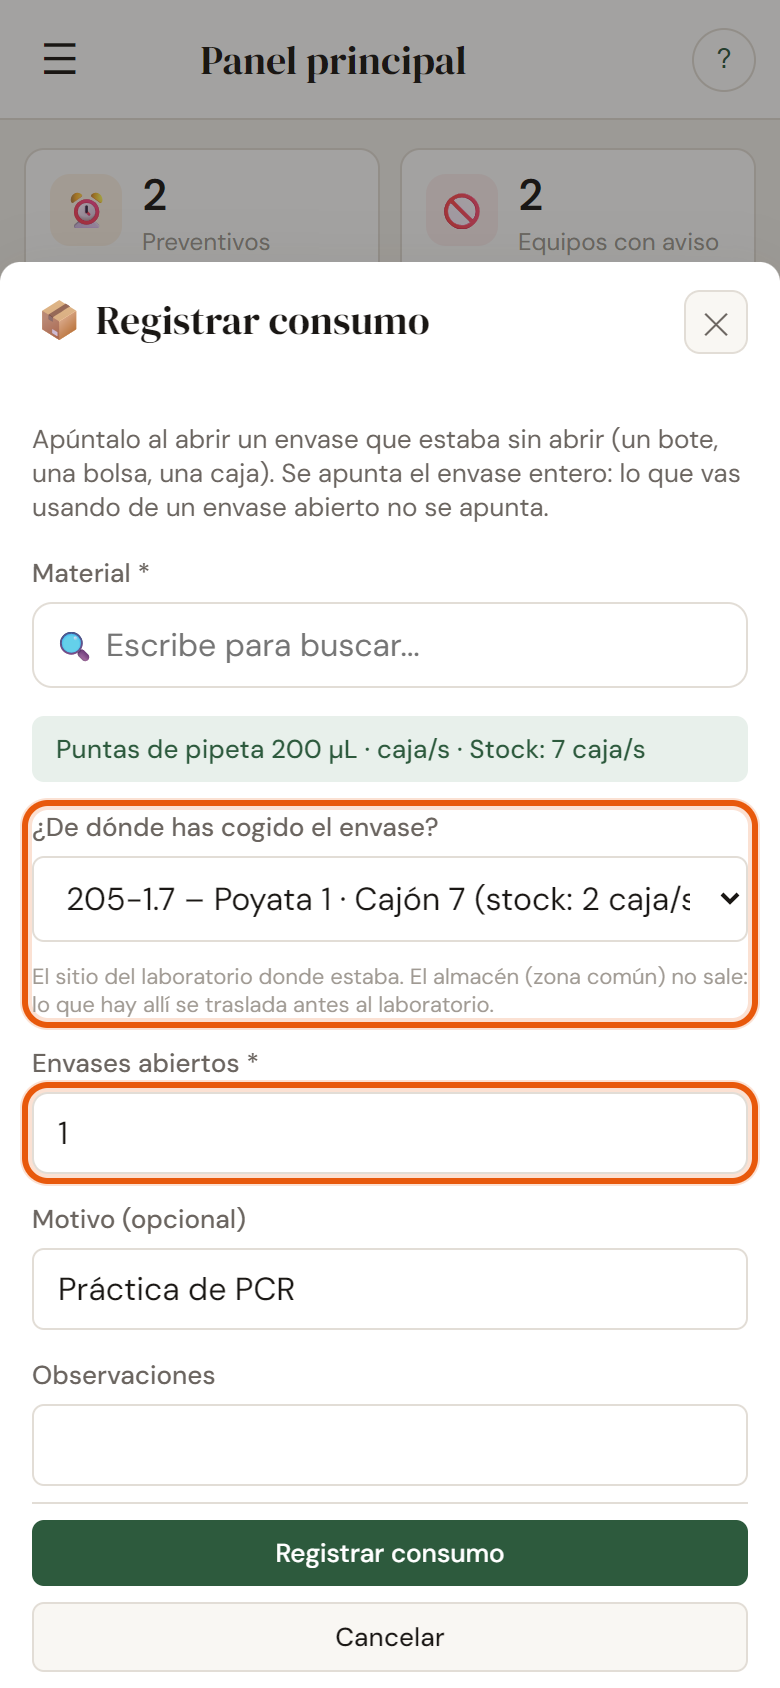
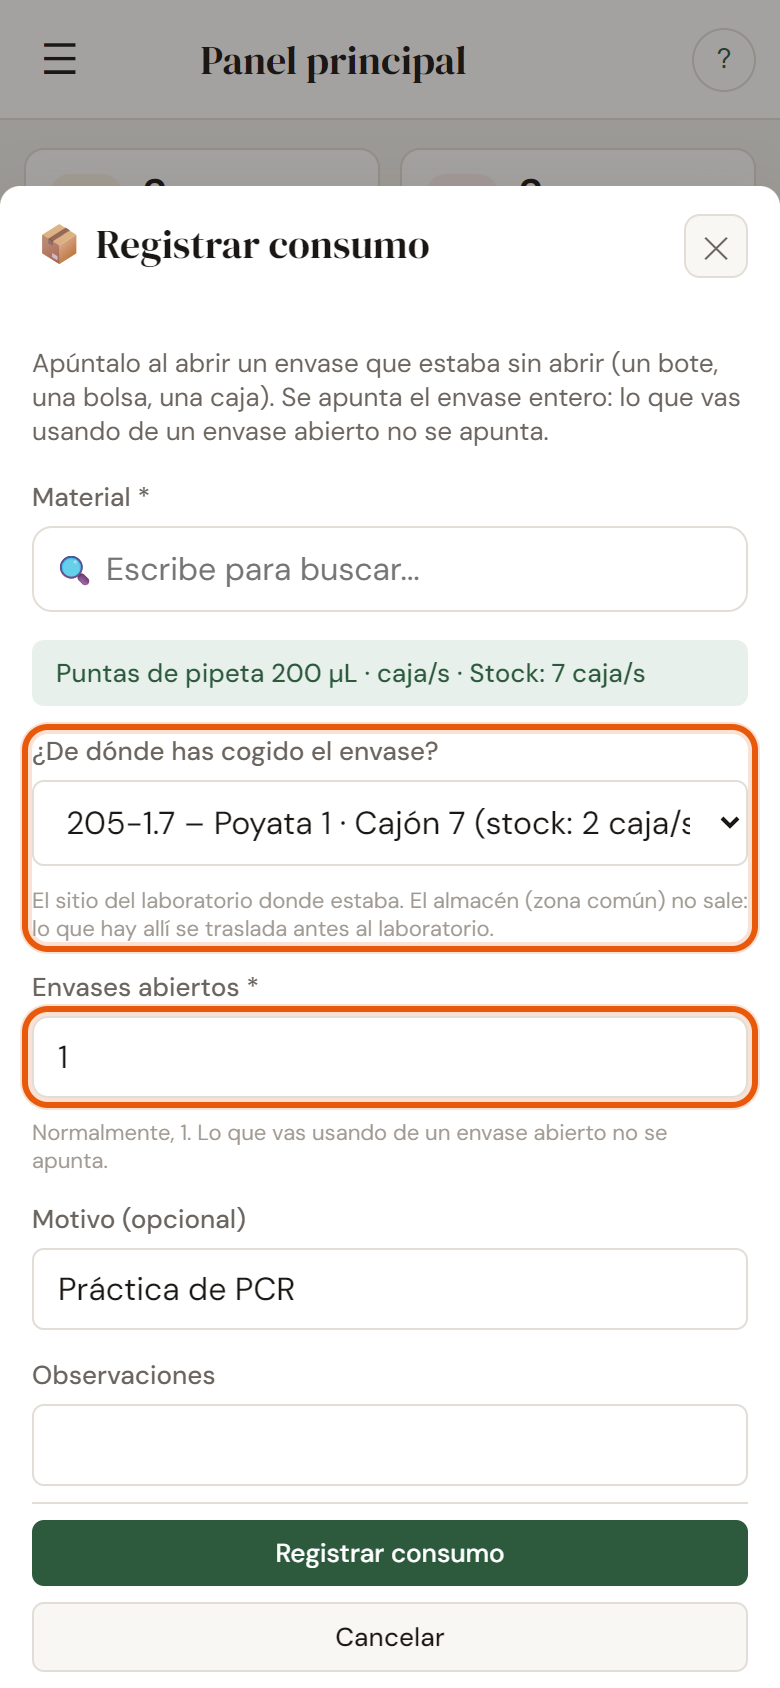
Material reutilizable (no se gasta) y consumibles contados por unidades
- Columna material.reutilizable: casilla «♻ Reutilizable» en la ficha y marca en la lista.
  Sin 📦 y el servidor no le admite consumo. Relleno inicial: 74 materiales (vidrio por
  unidades y lista por nombre) con scripts/marcar_material_reutilizable.py.
- Registro de consumo: si el material se cuenta por unidades sueltas, pide «Unidades del
  envase abierto» (todas las que traía), sin el 1 por defecto.
- Ayuda STO-2: notas de ambas cosas; captura 01 rehecha.

Changed region(s): [[0.0, 0.0924, 1.0, 0.7085], [0.9231, 0.2773, 0.9538, 0.3081]]

diff --git a/js/material.js b/js/material.js
@@ -276,7 +276,7 @@ function renderFilaMaterial(m) {
   let html = `<tr class="equipo-row expandable" id="${rowId}" style="cursor:pointer" onclick="toggleMatUbics('${m.ID_Material}')">
     <td><strong>${m.ID_Material}</strong></td>
     <td>
-      <span class="expand-icon" id="expand-mat-${safeId}">▶</span> ${m.Nombre}${avisoEsteril}
+      <span class="expand-icon" id="expand-mat-${safeId}">▶</span> ${m.Nombre}${avisoEsteril}${m.Reutilizable ? ` <span title="Reutilizable: no se gasta, no se apunta consumo" style="margin-left:4px;font-size:11px;color:var(--text-muted);white-space:nowrap">♻ Reutilizable</span>` : ''}
     </td>
     <td><span class="badge badge-gray">${m.Categoria ? m.Categoria.split(' — ')[0] : '—'}</span></td>
     <td>${ubiLabel}</td>
@@ -322,7 +322,7 @@ function renderFilaMaterial(m) {
         </td>
         <td colspan="2" style="font-size:12px;color:var(--text-muted)">${mnLocal || '—'} / ${opLocal || '—'}</td>
         <td onclick="event.stopPropagation()"><div class="row-actions">
-          ${esZonaComun(l.ID_Ubicacion) ? '' : `<button class="icon-btn" onclick="openModalConsumoLote('${l.ID}')" title="Apuntar un envase abierto aquí">📦</button>`}
+          ${esZonaComun(l.ID_Ubicacion) || m.Reutilizable ? '' : `<button class="icon-btn" onclick="openModalConsumoLote('${l.ID}')" title="Apuntar un envase abierto aquí">📦</button>`}
           ${_puedeRevisarInventario() ? `<button class="icon-btn" onclick="openModalContarStock('${m.ID_Material}','lote:${l.ID}')" title="Contar stock en esta ubicación">🔢</button>` : ''}
           ${puedeHacer('editarMaterial') ? `<button class="icon-btn" onclick="openModalEntradaLote('${l.ID}')" title="Entrada en esta ubicación">📥</button>` : ''}
           ${puedeHacer('editarMaterial') ? `<button class="icon-btn" onclick="openModalSubdividirLote('${l.ID}')" title="Subdividir/alicuotar">✂</button>` : ''}
@@ -349,7 +349,7 @@ function renderFilaMaterial(m) {
       </td>
       <td colspan="2" style="font-size:12px;color:var(--text-muted)">${mnLeg || '—'} / ${opLeg || '—'}</td>
       <td onclick="event.stopPropagation()"><div class="row-actions">
-        ${esZonaComun(m.Ubicacion) ? '' : `<button class="icon-btn" onclick="openModalConsumoMaterial('${m.ID_Material}')" title="Apuntar un envase abierto">📦</button>`}
+        ${esZonaComun(m.Ubicacion) || m.Reutilizable ? '' : `<button class="icon-btn" onclick="openModalConsumoMaterial('${m.ID_Material}')" title="Apuntar un envase abierto">📦</button>`}
         ${puedeHacer('editarMaterial') ? `<button class="icon-btn" onclick="openModalEntradaMaterial('${m.ID_Material}')" title="Entrada">📥</button>` : ''}
         ${puedeHacer('editarMaterial') && m.Ubicacion ? `<button class="icon-btn" onclick="subdividirDesdeLegacy('${m.ID_Material}')" title="Subdividir/alicuotar">✂</button>` : ''}
         ${m.Ubicacion ? `<button class="icon-btn" onclick="trasladarDesdeLegacy('${m.ID_Material}')" title="Trasladar a otra ubicación">🔀</button>` : ''}
@@ -829,6 +829,7 @@ function openModalMaterial() {
   ['mat-id','mat-nombre','mat-unidad','mat-unidades-extra','mat-ubicacion','mat-referencia','mat-observaciones','mat-ubicacion-search'].forEach(id => sv(id, ''));
   sv('mat-categoria', ''); sv('mat-stock', '0'); sv('mat-minimo', '0'); sv('mat-optimo', '0'); sv('mat-proveedor', '');
   const comunChkNuevo = document.getElementById('mat-comun'); if (comunChkNuevo) comunChkNuevo.checked = false;
+  const reutChkNuevo = document.getElementById('mat-reutilizable'); if (reutChkNuevo) reutChkNuevo.checked = false;
   clearUbicacionMat();
   const sel = document.getElementById('mat-proveedor');
   if (sel) sel.innerHTML = '<option value="">Seleccionar...</option>' + DATA.proveedores.filter(p => p.Activo !== 'FALSE').map(p => `<option value="${p.Nombre_Proveedor}">${p.Nombre_Proveedor}</option>`).join('');
@@ -898,6 +899,7 @@ function editMaterial(idx) {
   sv('mat-stock', m.Stock_Actual); sv('mat-minimo', m.Stock_Minimo); sv('mat-optimo', m.Stock_Optimo);
   sv('mat-observaciones', m.Observaciones);
   const comunChk = document.getElementById('mat-comun'); if (comunChk) comunChk.checked = m.Material_Comun === true;
+  const reutChk = document.getElementById('mat-reutilizable'); if (reutChk) reutChk.checked = m.Reutilizable === true;
   if (m.Ubicacion) {
     document.getElementById('mat-ubicacion').value = m.Ubicacion;
   }
@@ -984,7 +986,7 @@ function openModalConsumo() {
   const grp = document.getElementById('consumo-search-group');
   if (grp) grp.style.display = '';
   // El gasto es el envase que se abre, entero (norma de Paloma, 2026-11-23): normalmente, 1.
-  sv('consumo-cantidad', '1'); sv('consumo-motivo', ''); sv('consumo-obs', '');
+  _prepararCantidadConsumo(null); sv('consumo-motivo', ''); sv('consumo-obs', '');
   const ubiGrp = document.getElementById('consumo-ubicacion-group');
   if (ubiGrp) ubiGrp.style.display = 'none';
   // Limpiar bote fijo (puede venir de openModalConsumoLote anterior)
@@ -1008,11 +1010,31 @@ function openModalConsumoMaterial(matId) {
 }
 
 const MSG_GASTO_ALMACEN = 'La zona común es un almacén: desde allí no se apunta gasto. Lleva antes el envase a tu laboratorio (🔀 Trasladar) y apúntalo allí al abrirlo.';
+const MSG_GASTO_REUTILIZABLE = 'Es material reutilizable: no se gasta, así que no se apunta consumo. Si se rompe o se pierde, avisa al profesorado.';
+
+/** ¿Se cuenta por unidades sueltas («unidad/es», «ud/s»)? Entonces el gasto de un envase
+ *  abierto son todas las unidades que traía, no «1». */
+function _seCuentaPorUnidades(unidad) {
+  return /^(unidad|ud\b|uds\b|ud\/)/i.test(String(unidad || '').trim());
+}
+
+/** Rótulo y valor de la cantidad según cómo se cuenta el material (2026-11-24). */
+function _prepararCantidadConsumo(mat) {
+  const porUnidades = _seCuentaPorUnidades(mat?.Unidad);
+  const lab = document.getElementById('consumo-cantidad-label');
+  const ayuda = document.getElementById('consumo-cantidad-ayuda');
+  if (lab) lab.textContent = porUnidades ? 'Unidades del envase abierto *' : 'Envases abiertos *';
+  if (ayuda) ayuda.textContent = porUnidades
+    ? 'Este material se cuenta por unidades: apunta todas las que traía el envase que has abierto.'
+    : 'Normalmente, 1. Lo que vas usando de un envase abierto no se apunta.';
+  sv('consumo-cantidad', porUnidades ? '' : '1');
+}
 
 function openModalConsumoLote(loteId) {
   const lote = DATA.materialUbicaciones.find(l => l.ID === loteId);
   if (!lote) return;
   if (esZonaComun(lote.ID_Ubicacion)) { showToast(MSG_GASTO_ALMACEN, 'error'); return; }
+  if (DATA.material.find(m => m.ID_Material === lote.ID_Material)?.Reutilizable) { showToast(MSG_GASTO_REUTILIZABLE, 'error'); return; }
   openModalConsumoMaterial(lote.ID_Material);
   // Guardar el LOTE fijo en un input hidden dedicado (no la ubicación: puede
   // haber más de un bote en la misma ubicación, p.ej. madre + alícuotas)
@@ -1038,6 +1060,13 @@ function _mostrarSelectorUbicConsumo(matId) {
   if (sel0) sel0.innerHTML = '';
   const todos = getMatUbics(matId);
   const mat0 = DATA.material.find(m => m.ID_Material === matId);
+  if (mat0?.Reutilizable) {
+    showToast(MSG_GASTO_REUTILIZABLE, 'error');
+    if (sel0) sel0.innerHTML = '<option value="">Reutilizable: no se apunta gasto</option>';
+    ubiGrp.style.display = '';
+    return;
+  }
+  _prepararCantidadConsumo(mat0);
   const noDisponible = (msg, opcion) => {
     showToast(msg, 'error');
     const sel = document.getElementById('consumo-ubicacion-sel');
@@ -1219,6 +1248,7 @@ async function guardarMaterial() {
       stock_actual: stockGlobal, stock_minimo: minStock, stock_optimo: optStock,
       observaciones: v('mat-observaciones'), gestion_automatica: gestionAuto, lotes: lotesBody,
       material_comun: !!document.getElementById('mat-comun')?.checked,
+      reutilizable: !!document.getElementById('mat-reutilizable')?.checked,
     });
 
     if (esEdicion) DATA.material[editingRow.rowIndex] = _materialSbToObj(material);
@@ -1266,6 +1296,7 @@ async function guardarConsumo() {
   const loteSel  = loteFijo || document.getElementById('consumo-ubicacion-sel')?.value || '';
   const loteElegido = loteSel ? DATA.materialUbicaciones.find(l => l.ID === loteSel) : null;
 
+  if (mat.Reutilizable) { showToast(MSG_GASTO_REUTILIZABLE, 'error'); return; }
   // La zona común es un almacén: de allí no se apunta gasto (lo comprueba también el servidor)
   if ((loteElegido && esZonaComun(loteElegido.ID_Ubicacion)) || (!lotes.length && esZonaComun(mat.Ubicacion))) {
     showToast(MSG_GASTO_ALMACEN, 'error'); return;

diff --git a/html/modales-material.html b/html/modales-material.html
@@ -68,6 +68,13 @@
           <div style="font-size:11px;color:var(--text-muted);margin-top:3px;margin-left:24px">Lo usan otros ciclos (guantes, papel…). Se pide con lo demás, pero en contabilidad va a la partida "Material común" y en Trebello sale en una hoja aparte.</div>
         </div>
         <div class="form-group full">
+          <label style="display:flex;align-items:center;gap:8px;cursor:pointer;font-size:13px;font-weight:normal">
+            <input type="checkbox" id="mat-reutilizable" style="width:16px;height:16px;accent-color:var(--accent)">
+            <span>♻ Reutilizable</span>
+          </label>
+          <div style="font-size:11px;color:var(--text-muted);margin-top:3px;margin-left:24px">No se gasta (vidrio, gradillas, pinzas…): no se le apunta consumo. Si se rompe o se pierde, se corrige el stock en esta ficha.</div>
+        </div>
+        <div class="form-group full">
           <label>Observaciones</label>
           <textarea id="mat-observaciones" placeholder=""></textarea>
         </div>
@@ -107,8 +114,9 @@
           <div style="font-size:11px;color:var(--text-muted);margin-top:4px">El sitio del laboratorio donde estaba. El almacén (zona común) no sale: lo que hay allí se traslada antes al laboratorio.</div>
         </div>
         <div class="form-group">
-          <label>Envases abiertos *</label>
-          <input id="consumo-cantidad" type="number" min="1" step="1" placeholder="Normalmente, 1">
+          <label id="consumo-cantidad-label">Envases abiertos *</label>
+          <input id="consumo-cantidad" type="number" min="1" step="1">
+          <div id="consumo-cantidad-ayuda" style="font-size:11px;color:var(--text-muted);margin-top:4px">Normalmente, 1. Lo que vas usando de un envase abierto no se apunta.</div>
         </div>
         <div class="form-group">
           <label>Motivo (opcional)</label>

diff --git a/js/ayuda.js b/js/ayuda.js
@@ -313,7 +313,7 @@ const AYUDA_TAREAS = {
         pasos: [
           {
             texto: '**Al abrir el envase, abrir el registro de consumo.** En el «Panel principal», botón «📦 Registrar consumo de material» («¿Has abierto un envase? Apúntalo ahora»). O en «Material fungible › Inventario»: desplegar el material y pulsar «📦» en la línea del bote que se ha abierto; así el material y el bote ya van elegidos.',
-            nota: 'Los botes del almacén (zona común) no tienen «📦»: desde allí solo se trasladan.',
+            nota: 'Los botes del almacén (zona común) no tienen «📦»: desde allí solo se trasladan. Tampoco el material marcado «♻ Reutilizable» (vidrio, gradillas, pinzas…), que no se gasta.',
           },
           {
             texto: '**Elegir el material y el bote del que se ha cogido**, es decir, el sitio del laboratorio donde estaba: escribir el nombre en «Material» y elegirlo de la lista. Si el material está en más de un sitio de vuestros laboratorios, sale «¿De dónde has cogido el envase?»: elegir ese sitio. El stock se lleva por sitio: si se elige otro bote, un sitio queda con más de lo que hay y otro con menos. Si solo está en un sitio, la app lo elige sola.',
@@ -322,6 +322,7 @@ const AYUDA_TAREAS = {
           },
           {
             texto: '**En «Envases abiertos», los envases que se han abierto**: normalmente, 1, que ya viene puesto.',
+            nota: 'Si el material se cuenta por unidades sueltas («unidad/es»), el campo se llama «Unidades del envase abierto» y viene vacío: poner todas las unidades que traía el envase.',
           },
           {
             texto: '**En «Motivo», la práctica.** Sin nombres de personas.',

diff --git a/supabase/functions/gestionar-material/index.ts b/supabase/functions/gestionar-material/index.ts
@@ -103,6 +103,8 @@ async function esUbicacionZonaComun(supabaseAdmin: any, idUbicacion: string | nu
 const MSG_DESDE_ALMACEN = "La zona común es un almacén: desde allí no se apunta gasto. " +
   "Lleva antes el envase al laboratorio donde trabajas (🔀 Trasladar) y apúntalo allí al abrirlo.";
 const MSG_ALMACEN_A_ALMACEN = "Desde la zona común (el almacén) solo se puede llevar a un laboratorio";
+const MSG_REUTILIZABLE = "Es material reutilizable: no se gasta, así que no se apunta consumo. " +
+  "Si se rompe o se pierde, avisa al profesorado.";
 
 Deno.serve(async (req) => {
   const preflight = handleCorsPreflight(req);
@@ -153,6 +155,8 @@ Deno.serve(async (req) => {
     if (accion === "consumo") {
       const cantidad = Number(body.cantidad);
       if (!cantidad || cantidad <= 0) return jsonError("Introduce una cantidad válida", 400);
+      // Decisión de Paloma (2026-11-24): el material reutilizable no se gasta.
+      if (mat.reutilizable === true) return jsonError(MSG_REUTILIZABLE, 400);
       const loteId = strField(body.lote_id);
       const lotes = await getLotes(supabaseAdmin, idMaterial);
       let loteElegido = loteId ? lotes.find((l: any) => l.id === loteId) : null;
@@ -512,6 +516,10 @@ Deno.serve(async (req) => {
         // campo y no deben desmarcar un material común sin querer.
         ...(body.material_comun !== undefined
           ? { material_comun: body.material_comun === true || body.material_comun === "TRUE" }
+          : {}),
+        // Igual: solo si llega, para no desmarcar sin querer un material reutilizable.
+        ...(body.reutilizable !== undefined
+          ? { reutilizable: body.reutilizable === true || body.reutilizable === "TRUE" }
           : {}),
       };
 

diff --git a/js/sheets.js b/js/sheets.js
@@ -278,6 +278,7 @@ function _materialSbToObj(m) {
     Observaciones: m.observaciones || '',
     Gestion_Automatica: m.gestion_automatica ? 'TRUE' : 'FALSE',
     Material_Comun: m.material_comun === true,
+    Reutilizable: m.reutilizable === true,
   };
 }
 

diff --git a/scripts/marcar_material_reutilizable.py b/scripts/marcar_material_reutilizable.py
@@ -1,0 +1,80 @@
+"""
+Marca como REUTILIZABLE el material que no se gasta (vidrio, gradillas, pinzas, aspiradores…)
+— decisión de Paloma, 2026-11-24: con la norma «el gasto es el envase que se abre», esos
+objetos no se gastan; se rompen o se dan de baja. El material reutilizable no tiene «📦» y el
+servidor no admite apuntarle consumo.
+
+Es solo el relleno inicial: a partir de aquí se marca y desmarca a mano en la ficha del
+material (casilla «♻ Reutilizable»). Crea la columna si no existe. Idempotente.
+
+Uso:  python scripts/marcar_material_reutilizable.py            (simulación)
+      python scripts/marcar_material_reutilizable.py --aplicar  (guarda)
+"""
+import sys
+from base import conectar
+
+APLICAR = "--aplicar" in sys.argv
+
+# Todo el material de vidrio que se cuenta por unidades (matraces, vasos, probetas, botes,
+# cristalizadores, buretas, cámaras Neubauer…). Los portas y cubreobjetos van en cajas: no entran.
+REGLA_VIDRIO = "categoria like 'Material de vidrio%%' and unidad = 'unidad/es'"
+
+# El resto, por nombre exacto.
+NOMBRES = [
+    # Colorante y tinción
+    "Pinzas de tinción", "Soporte de tinción", "Bandeja de tinción para portaobjetos", "Cestilla de tinción",
+    # EPI y seguridad
+    "Gafas de protección Contour II", "Pantallas de seguridad", "Gafas de seguridad",
+    # Equipamiento menor
+    "Gradillas de plástico", "Bandeja para muestras, plástico", "Aspirador de cremalleira, 10 mL",
+    "Aspirador de cremalleira, 2 mL", "Aspirador de cremalleira, 25 mL", "Gradilla de metal",
+    "Gradilla metálica, 12 tubos, 16 mm", "Papelera con pedal", "Pera goma", "Cuenta unidades",
+    "Pinzas para crisol", "Varilla para soporte", "Timer clock", "Batidora de mano con picadora",
+    "Refractómetro de Abbe", "Linterna de luz UV",
+    # Material fungible (mal categorizados: no son fungibles)
+    "Pinceles, histología", "Afilador",
+    # Otro
+    "Pulverizadores", "Pincel, nº 2", "Brocha pequeña", "Exprimidor de plástico",
+    "Caja de cartón congelable para criotubos", "Caja de plástico congelable para criotubos",
+    "Gradilla Stomacher", "Jarra graduada de plástico, 2 L", "Tope puerta",
+]
+
+conn = conectar()
+cur = conn.cursor()
+cur.execute("select 1 from information_schema.columns where table_name='material' and column_name='reutilizable'")
+existe = cur.fetchone() is not None
+if not existe:
+    print("La columna material.reutilizable no existe" + (": se crea." if APLICAR else " (se creará con --aplicar)."))
+    if APLICAR:
+        cur.execute("alter table material add column if not exists reutilizable boolean not null default false")
+        conn.commit()
+        existe = True
+
+cur.execute(f"select id_material, nombre from material where {REGLA_VIDRIO} order by nombre")
+vidrio = cur.fetchall()
+cur.execute("select id_material, nombre from material where nombre = any(%s) order by nombre", (NOMBRES,))
+otros = cur.fetchall()
+encontrados = {n for _, n in otros}
+faltan = [n for n in NOMBRES if n not in encontrados]
+if faltan:
+    print("⚠ No encontrados (revisar el nombre):", faltan)
+repetidos = [n for n in encontrados if sum(1 for _, x in otros if x == n) > 1]
+if repetidos:
+    print("⚠ Nombres repetidos (se marcan todos):", repetidos)
+
+ids = sorted({i for i, _ in vidrio} | {i for i, _ in otros})
+print(f"\nMaterial de vidrio por unidades: {len(vidrio)}")
+for _, n in vidrio: print("  ·", n)
+print(f"\nOtros por nombre: {len(otros)}")
+for _, n in otros: print("  ·", n)
+print(f"\nTotal a marcar como reutilizable: {len(ids)}")
+
+if not APLICAR:
+    print("\nSimulación: no se ha guardado nada. Ejecuta con --aplicar para guardar.")
+    sys.exit(0)
+
+cur.execute("update material set reutilizable = true where id_material = any(%s) and reutilizable = false", (ids,))
+print(f"Marcados ahora: {cur.rowcount}")
+conn.commit()
+cur.execute("select count(*) from material where reutilizable")
+print("Reutilizables en total:", cur.fetchone()[0])

diff --git a/CLAUDE.md b/CLAUDE.md
@@ -59,6 +59,7 @@ ya no lo usa nada; se puede revocar si se quiere.
 - `limpiar_logins_huerfanos.py` — borra de Supabase Auth los logins sin fila en `usuarios` ni en `public.users`; `DRY_RUN` por defecto
 - `corregir_inventario_2026_09.py` — corrección puntual (una vez) de los materiales con un número como unidad y fusión de 4 duplicados; simulación por defecto, `--aplicar` para guardar
 - `normalizar_unidades_material.py` — unifica cómo se escriben las unidades (caja/s, bote/s…) y las categorías de material, y limpia las propuestas pendientes con un número en la unidad; simulación por defecto, `--aplicar` para guardar
+- `marcar_material_reutilizable.py` — crea `material.reutilizable` y marca el material que no se gasta (vidrio por unidades + lista por nombre); ya ejecutado el 2026-11-24, idempotente; simulación por defecto, `--aplicar` para guardar
 - `recolocar_residuos_2026_10.py` — recolocación (una vez, ya ejecutada) del catálogo de residuos según las normas del gestor de 2026-10-01; simulación por defecto, `--aplicar` para guardar
 - `recargar_protocolos_planes.py` — recarga `equipos.protocolo_uso` y los planes de mantenimiento desde `protocolos.jsonl` / `mantenimientos.jsonl` de la carpeta de protocolos: los planes activos pasan a inactivos (nunca se borran), los equipos «Dado de baja» no reciben planes, los registros de planes activos pasan al plan nuevo de la misma periodicidad (si alguno no tiene equivalente, no escribe nada) y guarda antes una copia CSV en esa carpeta. Con `--en-sitio` no crea ni desactiva planes: solo reescribe protocolos e `instrucciones` en el plan activo que ya existe (mismo equipo y periodicidad), para cuando únicamente cambian los pasos; se para si cambia otra cosa. Simulación por defecto, `--aplicar` para guardar
 - `anonimizar_propuestas.py` — borra el email de quien propuso en las propuestas ya resueltas; ejecutar al cerrar cada curso
@@ -478,6 +479,15 @@ de consumo no los ofrece y `consumo` de `gestionar-material` lo rechaza (`esUbic
 Desde la zona común solo se traslada, y **solo a un laboratorio** (lo exige también el servidor
 en `traslado` y `transferencia_masiva`; `corregir_ubicacion` no, porque arregla un error de
 inventario). Tareas STO-1/2/3 de la Ayuda.
+
+**Material reutilizable** (2026-11-24): vidrio, gradillas, pinzas, aspiradores… no se gastan
+(se rompen o se dan de baja). Columna `material.reutilizable` (casilla «♻ Reutilizable» en la
+ficha, marca junto al nombre en la lista): sin 📦 y `consumo` lo rechaza. Relleno inicial con
+`scripts/marcar_material_reutilizable.py` (74 materiales); desde entonces se marca **a mano en la
+ficha**, no se deduce. Lo que se rompe se corrige en la ficha (Gestor/Admin).
+**Consumibles contados por unidades** («unidad/es», «ud/s»: cartuchos, filtros…): su stock va
+en unidades, y al abrir una caja se apuntan **todas las unidades que traía**; el registro lo pide
+como «Unidades del envase abierto», sin el 1 por defecto (`_prepararCantidadConsumo`).
 
 ### Recontar lo que ya está fichado: 🔢 Contar stock, por ubicación
 
